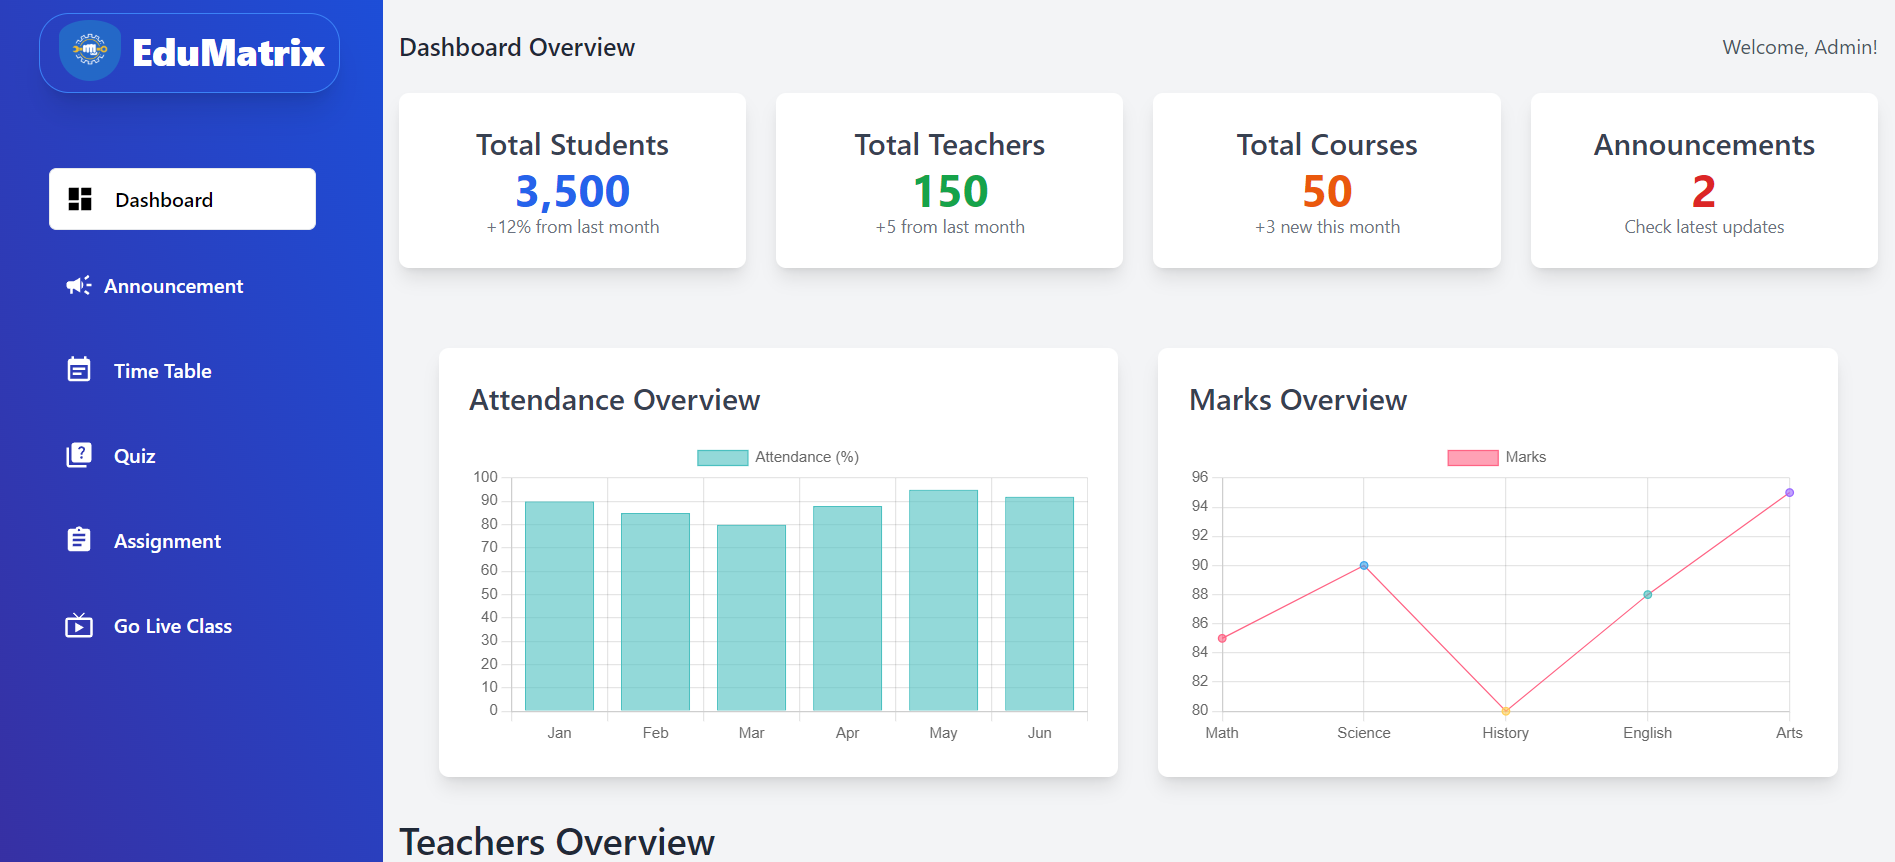
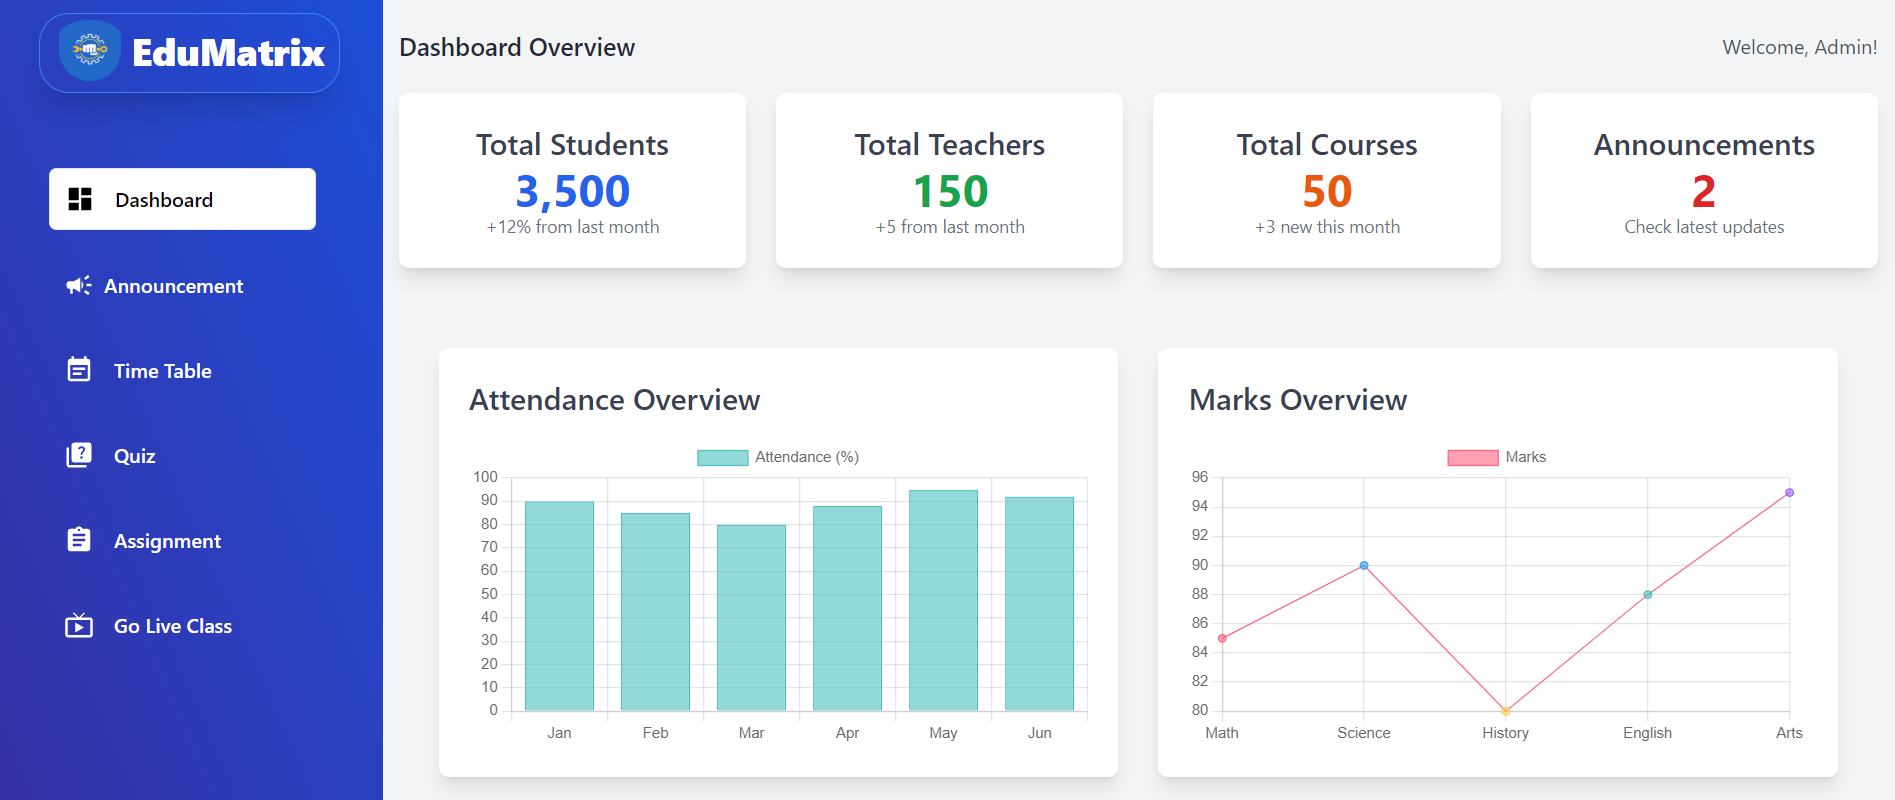
working on the ui of the product

diff --git a/client/src/pages/Home/HomePage.jsx b/client/src/pages/Home/HomePage.jsx
@@ -101,72 +101,61 @@ const HomePage = () => {
           <div data-aos="zoom-in" data-aos-delay="150" className="relative mt-10 sm:mt-14 max-w-5xl mx-auto">
             <div className="absolute -inset-6 bg-gradient-to-b from-brand-200/60 via-transparent to-transparent blur-2xl rounded-[3rem] pointer-events-none" />
 
-            {/* Mobile / tablet product story — magnified detail crops from the real
-                dashboard asset. The full desktop mockup shrinks to illegibility
-                on phones, so each frame spotlights one region at ~2x with an
-                honest caption. Desktop keeps the composed full frame below. */}
-            <div className="lg:hidden">
-              <div className="flex items-center gap-1.5 rounded-t-[1.5rem] border border-b-0 border-ink-900/10 bg-white px-4 py-2.5">
-                <span className="h-2.5 w-2.5 rounded-full bg-[#FF5F57]" /><span className="h-2.5 w-2.5 rounded-full bg-[#FEBC2E]" /><span className="h-2.5 w-2.5 rounded-full bg-[#28C840]" />
-                <span className="ml-2 truncate text-[11px] font-semibold text-ink-400">app.edumatrix.live/dashboard</span>
+            {/* Responsive browser mockup frame */}
+            <div className="relative bg-white rounded-2xl sm:rounded-[2rem] border border-ink-900/10 shadow-card p-2.5 sm:p-3 lg:p-4 text-left">
+              {/* Window controls & URL bar */}
+              <div className="flex items-center gap-1.5 px-2.5 sm:px-3 py-1.5 sm:py-2">
+                <span className="h-2.5 w-2.5 rounded-full bg-[#FF5F57]" />
+                <span className="h-2.5 w-2.5 rounded-full bg-[#FEBC2E]" />
+                <span className="h-2.5 w-2.5 rounded-full bg-[#28C840]" />
+                <span className="ml-2 sm:ml-3 text-[11px] sm:text-xs font-semibold text-ink-400 bg-paper border border-ink-900/10 rounded-full px-3 py-0.5 sm:py-1 truncate">
+                  app.edumatrix.live/dashboard
+                </span>
               </div>
-              <div className="grid gap-3 sm:grid-cols-2 rounded-b-[1.5rem] border border-ink-900/10 bg-white p-2 shadow-card">
-                <figure className="relative overflow-hidden rounded-[1rem] border border-ink-900/10 bg-paper">
-                  <div className="aspect-[16/10] overflow-hidden">
-                    <img
-                      src="/images/dashboard.png"
-                      alt="Close-up of EduMatrix live class statistics cards"
-                      loading="lazy"
-                      className="h-full w-full scale-[1.9] object-cover origin-[62%_16%]"
-                    />
-                  </div>
-                  <figcaption className="absolute left-2.5 top-2.5 inline-flex items-center gap-1.5 rounded-full bg-white/95 py-1 pl-2.5 pr-3 text-[11px] font-extrabold text-ink-900 shadow-soft backdrop-blur">
-                    <span className="h-1.5 w-1.5 rounded-full bg-red-500 animate-pulse" />
-                    Live Class · Physics 101
-                  </figcaption>
-                </figure>
-                <figure className="relative overflow-hidden rounded-[1rem] border border-ink-900/10 bg-paper">
-                  <div className="aspect-[16/10] overflow-hidden">
-                    <img
-                      src="/images/dashboard.png"
-                      alt="Close-up of EduMatrix attendance and marks analytics charts"
-                      loading="lazy"
-                      className="h-full w-full scale-[1.9] object-cover origin-[55%_64%]"
-                    />
-                  </div>
-                  <figcaption className="absolute left-2.5 top-2.5 inline-flex items-center gap-1.5 rounded-full bg-ink-900/95 py-1 pl-2.5 pr-3 text-[11px] font-extrabold text-white shadow-soft backdrop-blur">
-                    <Sparkle size={11} className="text-accent-lime" />
-                    AI Quiz Ready · auto-graded
-                  </figcaption>
-                </figure>
-              </div>
-            </div>
 
-            {/* Desktop composed frame — floats tucked inside at lg, full
-                bleed-out only on xl so nothing clips awkwardly. */}
-            <div className="relative hidden bg-white rounded-[2rem] border border-ink-900/10 shadow-card p-2.5 lg:block lg:p-4 text-left">
-              <div className="flex items-center gap-1.5 px-3 py-2">
-                <span className="h-2.5 w-2.5 rounded-full bg-[#FF5F57]" /><span className="h-2.5 w-2.5 rounded-full bg-[#FEBC2E]" /><span className="h-2.5 w-2.5 rounded-full bg-[#28C840]" />
-                <span className="ml-3 hidden md:block text-xs font-semibold text-ink-400 bg-paper border border-ink-900/10 rounded-full px-3 py-1">app.edumatrix.live/dashboard</span>
+              {/* Clean dashboard preview */}
+              <div className="relative overflow-hidden rounded-xl sm:rounded-[1.4rem] border border-ink-900/10 bg-slate-50">
+                <img
+                  src="/images/dashboard.png"
+                  alt="EduMatrix Dashboard preview"
+                  loading="lazy"
+                  className="w-full h-auto block object-cover object-top"
+                />
               </div>
-              <img src="/images/dashboard.png" alt="Dashboard preview" className="w-full aspect-[16/8] rounded-[1.4rem] border border-ink-900/10 object-cover object-top" />
-              <div className="hidden lg:flex absolute -left-4 xl:-left-10 top-16 items-start gap-3 rounded-2xl bg-white/95 glass border border-ink-900/10 shadow-card p-4 w-60 animate-float text-left">
-                <span className="grid h-10 w-10 place-items-center rounded-xl bg-red-50 text-red-500 ring-1 ring-red-500/15"><Radio size={19} /></span>
+
+              {/* Floating Live Class Badge (Tablet & Desktop) */}
+              <div className="hidden lg:flex absolute -left-4 xl:-left-8 top-14 items-start gap-3 rounded-2xl bg-white/95 glass border border-ink-900/10 shadow-card p-3.5 sm:p-4 w-56 sm:w-60 motion-safe:animate-float text-left">
+                <span className="grid h-10 w-10 place-items-center rounded-xl bg-red-50 text-red-500 ring-1 ring-red-500/15">
+                  <Radio size={19} />
+                </span>
                 <span>
-                  <span className="flex items-center gap-1.5 text-[13px] font-extrabold">Live Class <span className="h-2 w-2 rounded-full bg-red-500 animate-pulse" /></span>
+                  <span className="flex items-center gap-1.5 text-[13px] font-extrabold text-ink-900">
+                    Live Class <span className="h-2 w-2 rounded-full bg-red-500 animate-pulse" />
+                  </span>
                   <span className="block text-xs text-ink-500 font-medium mt-0.5">Physics 101 • 248 joined</span>
-                  <span className="mt-2 block h-1.5 rounded-full bg-ink-900/10 overflow-hidden"><span className="block h-full w-[98%] rounded-full bg-accent-mint" /></span>
+                  <span className="mt-2 block h-1.5 rounded-full bg-ink-900/10 overflow-hidden">
+                    <span className="block h-full w-[98%] rounded-full bg-accent-mint" />
+                  </span>
                   <span className="block mt-1 text-[11px] font-bold text-ink-600">Attendance 98%</span>
                 </span>
               </div>
-              <div className="hidden lg:block absolute -right-4 xl:-right-8 bottom-14 rounded-2xl bg-ink-900 text-white shadow-pop p-4 w-60 animate-float text-left" style={{ animationDelay: "1.2s" }}>
-                <span className="inline-flex items-center gap-1.5 rounded-full bg-accent-lime/15 text-accent-lime px-2.5 py-1 text-[11px] font-bold"><Sparkle size={12} /> AI QUIZ READY</span>
-                <p className="mt-2 text-[13px] font-bold leading-snug">Generated 10 questions from Chapter 4</p>
+
+              {/* Floating AI Quiz Ready Badge (Tablet & Desktop) */}
+              <div
+                className="hidden lg:block absolute opacity-85 -right-4 xl:-right-8 bottom-10 rounded-2xl bg-ink-900 text-white shadow-pop p-3.5 sm:p-4 w-56 sm:w-60 motion-safe:animate-float text-left"
+                style={{ animationDelay: "1.2s" }}
+              >
+                <span className="inline-flex items-center gap-1.5 rounded-full bg-accent-lime/15 text-accent-lime px-2.5 py-1 text-[11px] font-bold ">
+                  AI QUIZ READY
+                </span>
+                <p className="mt-2 text-xs sm:text-[13px] font-bold leading-snug">Generated 10 questions from Chapter 4</p>
                 <div className="mt-3 flex gap-2">
-                  <span className="flex-1 text-center rounded-lg bg-white text-ink-900 text-xs font-bold py-2">Preview</span>
-                  <span className="flex-1 text-center rounded-lg bg-brand-500 text-white text-xs font-bold py-2">Assign</span>
+                  <span className="flex-1 text-center rounded-lg bg-white text-ink-900 text-xs font-bold py-1.5 sm:py-2">Preview</span>
+                  <span className="flex-1 text-center rounded-lg bg-brand-500 text-white text-xs font-bold py-1.5 sm:py-2">Assign</span>
                 </div>
-                <span className="mt-2 flex items-center gap-1 text-[11px] font-semibold text-white/70"><CheckCircle2 size={12} className="text-accent-mint" /> Auto-graded + analytics</span>
+                <span className="mt-2 flex items-center gap-1 text-[11px] font-semibold text-white/70">
+                  <CheckCircle2 size={12} className="text-accent-mint" /> Auto-graded + analytics
+                </span>
               </div>
             </div>
           </div>

diff --git a/client/src/pages/Home/components/DashboardSection.jsx b/client/src/pages/Home/components/DashboardSection.jsx
@@ -16,7 +16,7 @@ const DashboardSection = () => {
         <p className="mt-2.5 sm:mt-3 text-ink-500 text-[13.5px] sm:text-base max-w-xl mx-auto leading-relaxed">One calm command center for faculty, staff and leadership — from classes to results.</p>
         <div className="mt-7 sm:mt-10 grid lg:grid-cols-2 gap-4 sm:gap-8 items-stretch text-left">
           <div className="relative">
-            <img src="/images/live-teacher.jpg" alt="Teacher running a live class" loading="lazy" className="h-60 min-[480px]:h-72 sm:h-full sm:min-h-[320px] w-full object-cover rounded-[1.5rem] sm:rounded-3xl border border-ink-900/10 shadow-card" />
+            <img src="/images/graduation.jpg" alt="Teacher running a live class" loading="lazy" className="h-60 min-[480px]:h-72 sm:h-full sm:min-h-[320px] w-full object-cover rounded-[1.5rem] sm:rounded-3xl border border-ink-900/10 shadow-card" />
             <div className="absolute left-3 bottom-3 right-3 sm:left-5 sm:bottom-5 sm:right-auto rounded-2xl bg-white/95 glass border border-ink-900/10 shadow-card p-3 sm:p-4 flex items-center gap-3 sm:gap-4 motion-safe:animate-float motion-reduce:animate-none">
               <span className="grid h-10 w-10 sm:h-12 sm:w-12 shrink-0 place-items-center rounded-xl sm:rounded-2xl bg-brand-50 text-brand-600 ring-1 ring-brand-600/15"><Users size={20} /></span>
               <span><span className="block text-[11px] sm:text-xs font-bold text-ink-500">Total Students</span><span className="block font-display text-xl sm:text-2xl font-extrabold text-ink-900 leading-none mt-0.5">3,500</span></span>
